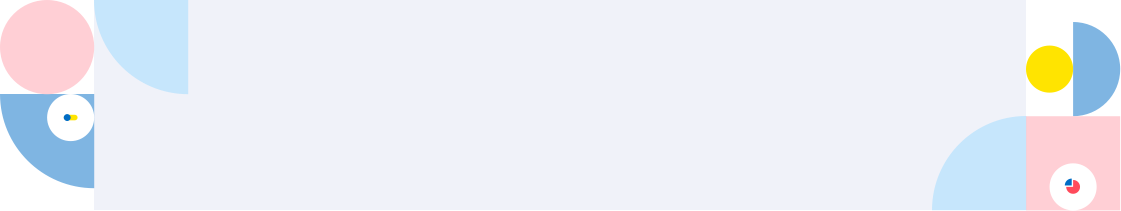
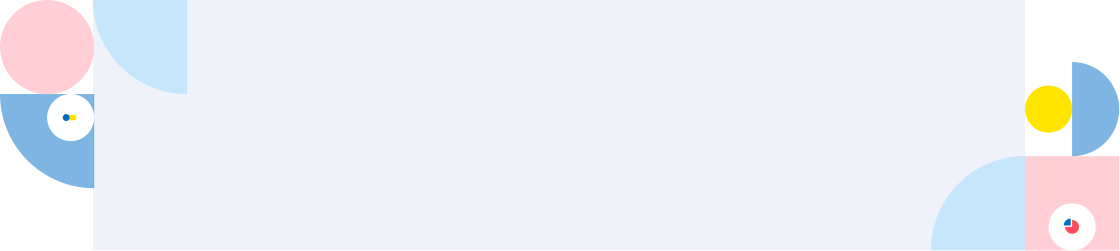
修改暑假活动二维码添加提示

diff --git a/web-ui/docs/.vuepress/components/activities/activities.vue b/web-ui/docs/.vuepress/components/activities/activities.vue
@@ -715,16 +715,18 @@ export default {
 		.guide {
 			margin-top: 38px;
 			width: 1120px;
-			height: 210px;
-			background-image: url('/img/activities/pc/bg.png');
+			height: 251px;
+			background: url('/img/activities/pc/bg.png') no-repeat;
+			background-size: 100% 100%;
 			@media screen and (max-width: 1000px) {
 				width: 100%;
 				height: auto;
-  			  	background-image: none;
+  			  	background: none;
 			}
 			.guide-box {
 				padding: 20px 210px;
 				display: flex;
+				align-items: center;
 				justify-content: space-between;
 				@media screen and (max-width: 1000px) {
 					display: block;
@@ -750,7 +752,7 @@ export default {
 					}
 					.line {
 						margin-top: 10px;
-						width: 396px;
+						width: 445px;
 						@media screen and (max-width: 1000px) {
 							width: 100%;
 						}

diff --git a/web-ui/docs/.vuepress/lang/lang-modules/activities.js b/web-ui/docs/.vuepress/lang/lang-modules/activities.js
@@ -50,7 +50,7 @@ module.exports = {
         OFFICIAL_WEBSITE_LABLE: '活动整体详情可以访问',
         OFFICIAL_WEBSITE_LINK: '暑期2021活动官网',
         PERIOD: '。',
-        DESCRIPTION_4: '欢迎加入暑期2021活动openEuler社区交流群，项目任务讲解直播等活动将在群内通知。',
+        DESCRIPTION_4: '扫码添加openEuler小助手微信，备注“暑期2021”，邀请你进暑期2021 openEuler 项目交流群，项目任务讲解直播等信息将在群内通知。',
         FILTER_TITLE: '选择任务',
         FILTER: {
             LABEL_1: '技术方向',
